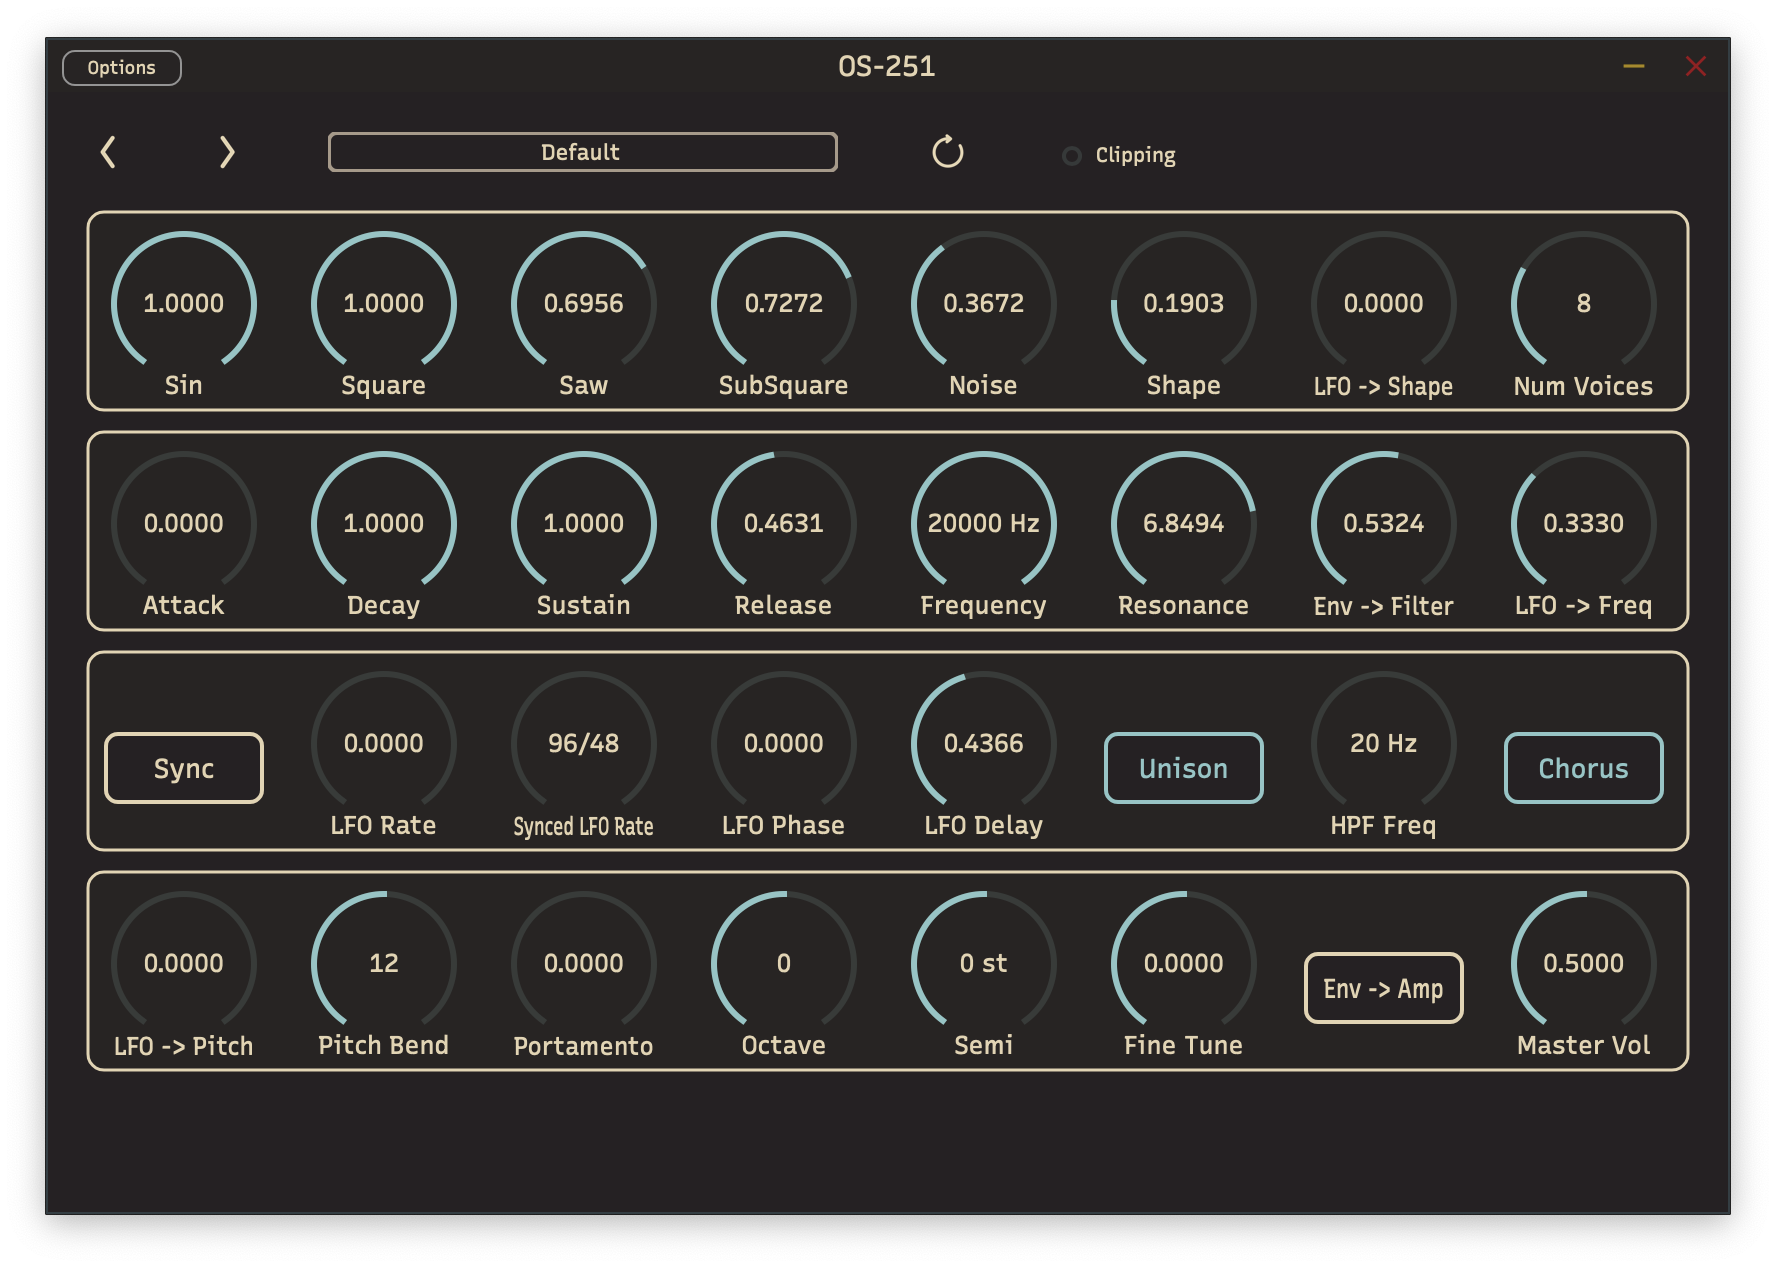
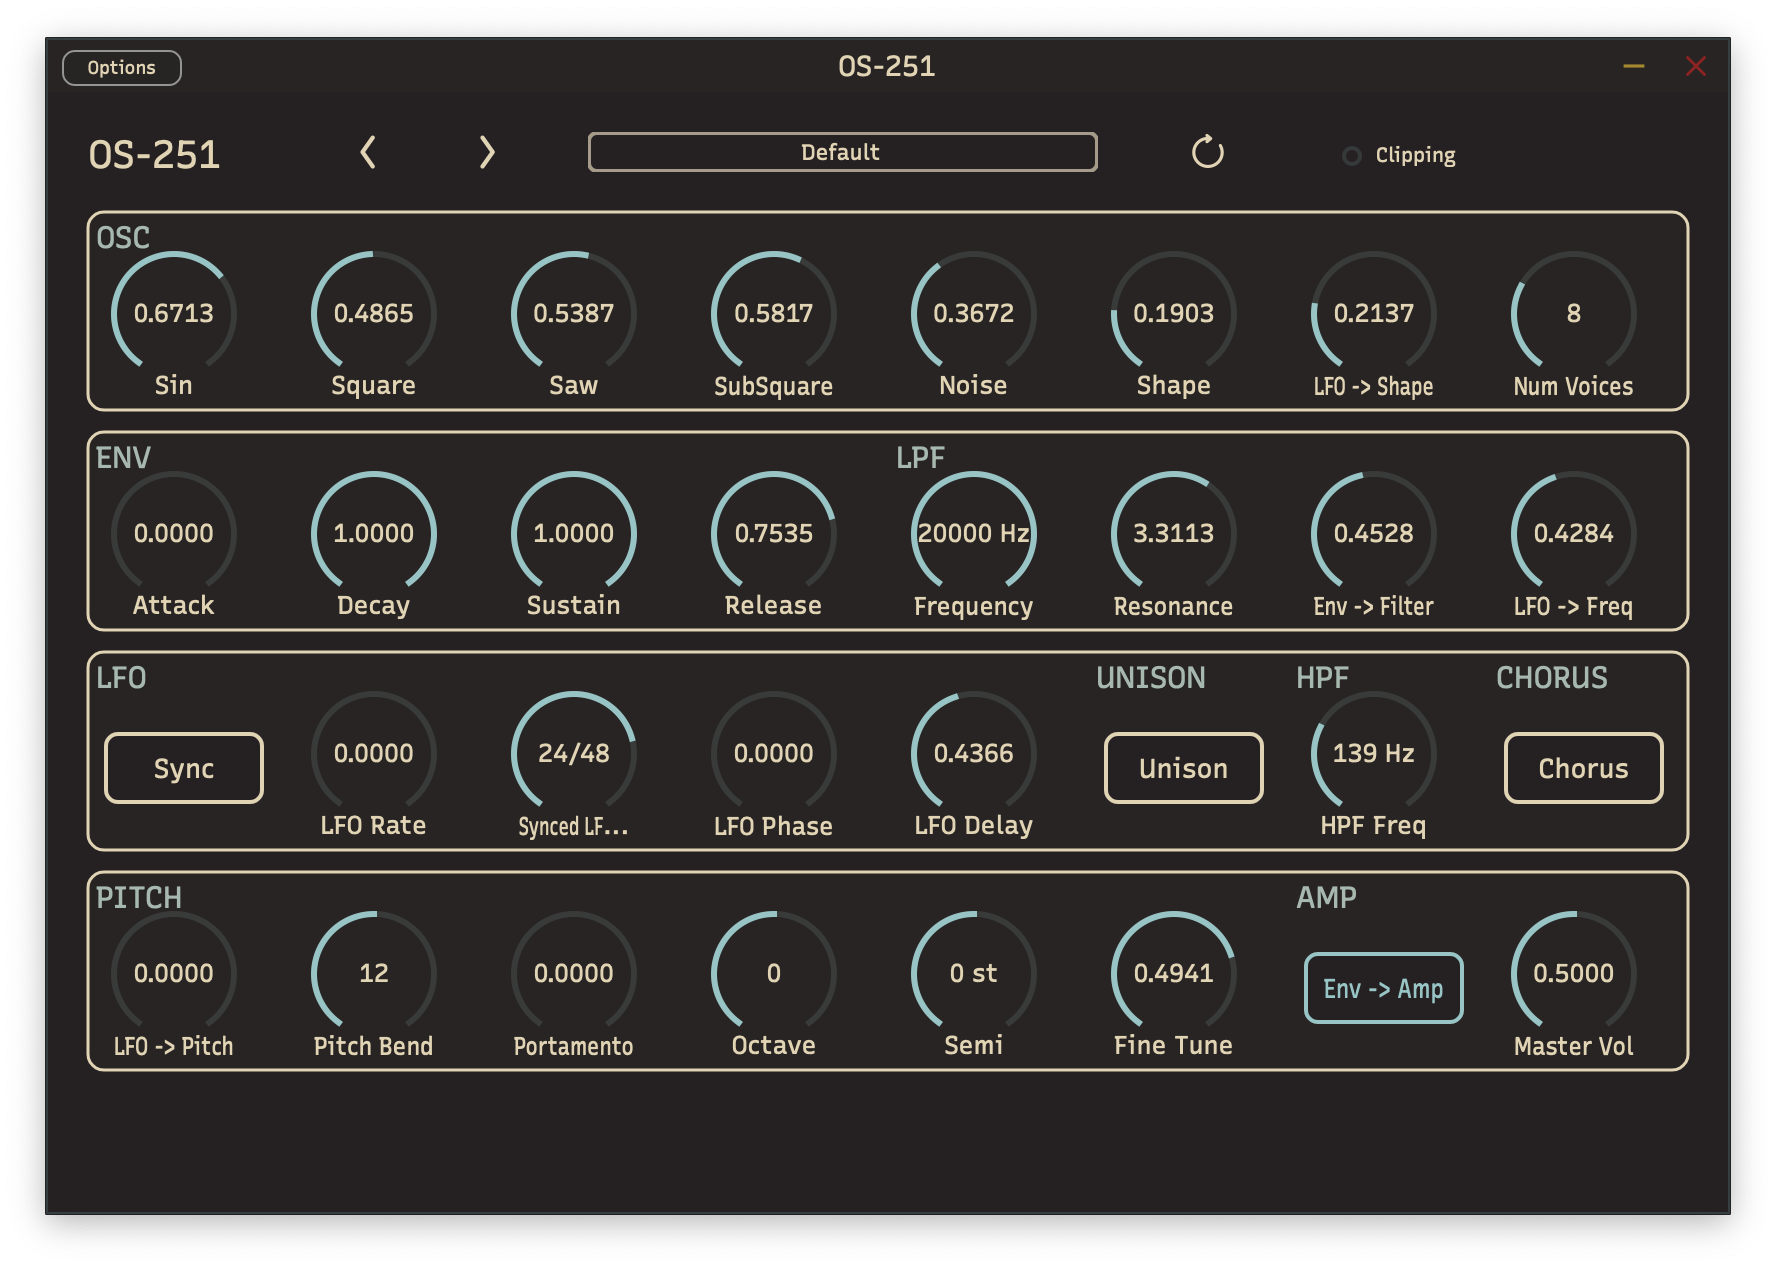
Add texts for parameter group in UI

diff --git a/src/PluginEditor.cpp b/src/PluginEditor.cpp
@@ -114,12 +114,13 @@ void Os251AudioProcessorEditor::resized()
 
         if (p.second == ParamType::SLIDER)
         {
-            constexpr unsigned int knobMargin = 20;
+            constexpr unsigned int knobMargin = 30;
+            constexpr unsigned int yOffset = 10;
             constexpr unsigned int width = paramWidth - knobMargin;
-            sliders[paramName]->setBounds (x, y, width, paramHeight - knobMargin);
+            sliders[paramName]->setBounds (x, y + yOffset, width, paramHeight - knobMargin);
             constexpr bool isReadOnly = true;
             sliders[paramName]->setTextBoxStyle (juce::Slider::TextBoxBelow, isReadOnly, width, textEntryBoxHeight);
-            sliderLabels[paramName]->setBounds (x, y + sliders[paramName]->getHeight() - 14, width, textEntryBoxHeight);
+            sliderLabels[paramName]->setBounds (x, y + yOffset + sliders[paramName]->getHeight() - 14, width, textEntryBoxHeight);
             sliderLabels[paramName]->setJustificationType (juce::Justification::centred);
         }
         else /*(p.second == ParamType::BUTTON)*/
@@ -159,5 +160,28 @@ void Os251AudioProcessorEditor::paint (juce::Graphics& g)
         g.fillRoundedRectangle (bound, cornerSize);
         g.setColour (juce::Colour (onsen::colors::textColor));
         g.drawRoundedRectangle (bound, cornerSize, 1.5f);
+    }
+
+    for (int i = 0; i < paramLayout.size(); i++)
+    {
+        const auto& p = paramLayout[i];
+        const auto& paramName = p.first;
+
+        const unsigned int row = i / numCol;
+        const unsigned int col = i % numCol;
+        const unsigned int x /*of left top*/ = col * paramWidth + 0 + initX;
+        const unsigned int y /*of left top*/ = row * rowHeight + 0 + initY;
+        if (! paramGroupLayout[i].empty())
+        {
+            g.setColour (juce::Colour (onsen::colors::testColorSecondary));
+            g.setFont (18.0f);
+            g.drawText (
+                juce::String (paramGroupLayout[i]),
+                x + 4,
+                y + 4,
+                100,
+                100,
+                juce::Justification::topLeft);
+        }
     }
 }

diff --git a/src/PluginEditor.h b/src/PluginEditor.h
@@ -111,6 +111,48 @@ private:
         { "masterVolume", ParamType::SLIDER },
     };
 
+    std::vector<std::string> paramGroupLayout {
+        { "OSC" },
+        { "" },
+        { "" },
+        { "" },
+
+        { "" },
+        { "" },
+        { "" },
+        { "" },
+
+        { "ENV" },
+        { "" },
+        { "" },
+        { "" },
+
+        { "LPF" },
+        { "" },
+        { "" },
+        { "" },
+
+        { "LFO" },
+        { "" },
+        { "" },
+        { "" },
+
+        { "" },
+        { "UNISON" },
+        { "HPF" },
+        { "CHORUS" },
+
+        { "PITCH" },
+        { "" },
+        { "" },
+        { "" },
+
+        { "" },
+        { "" },
+        { "AMP" },
+        { "" },
+    };
+
     std::unordered_map<std::string, std::unique_ptr<juce::Slider>> sliders;
     std::unordered_map<std::string, std::unique_ptr<juce::Label>> sliderLabels;
     std::unordered_map<std::string, std::unique_ptr<SliderAttachment>> sliderAttachment;
